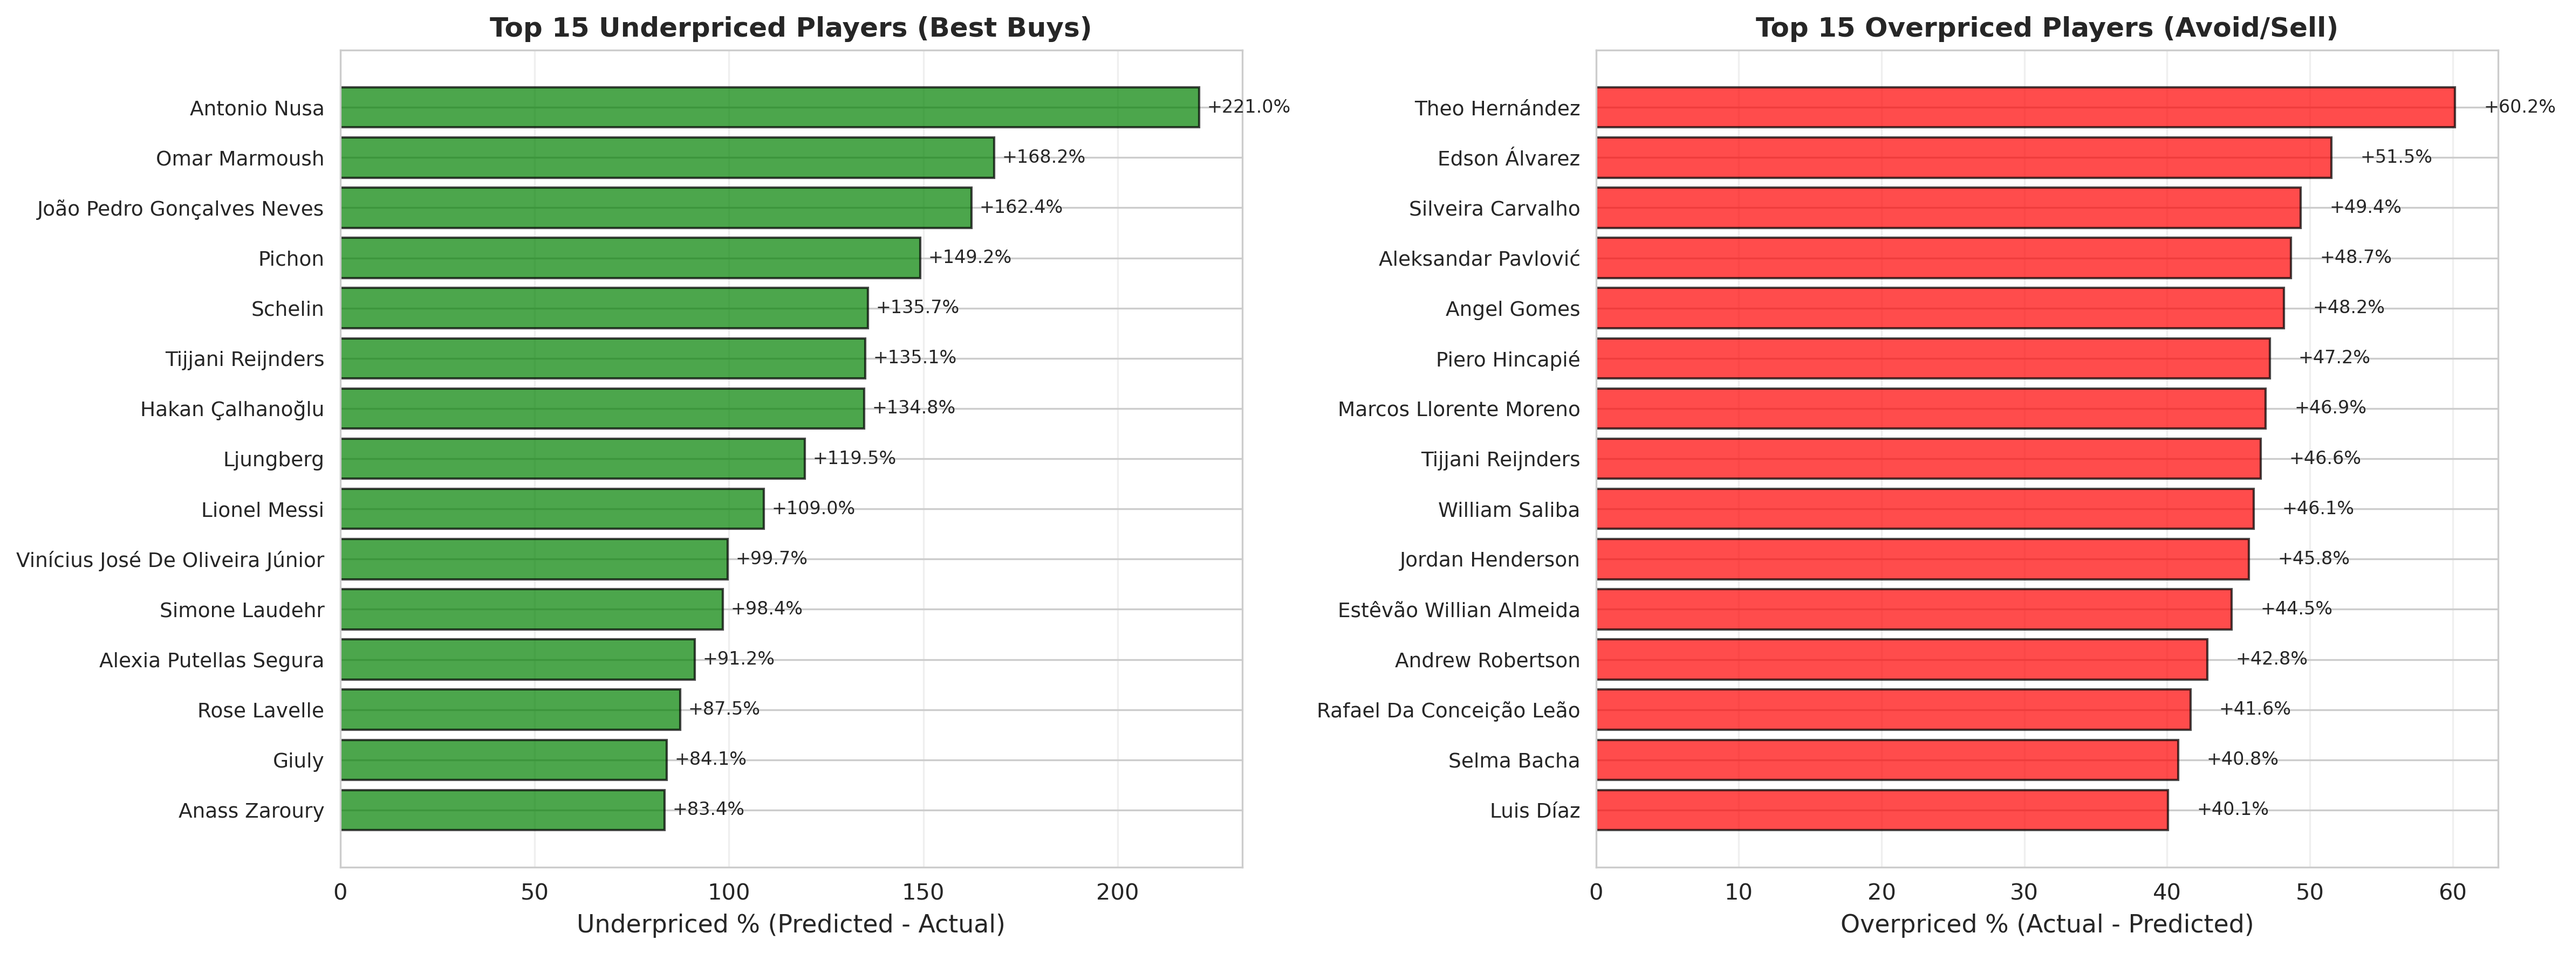
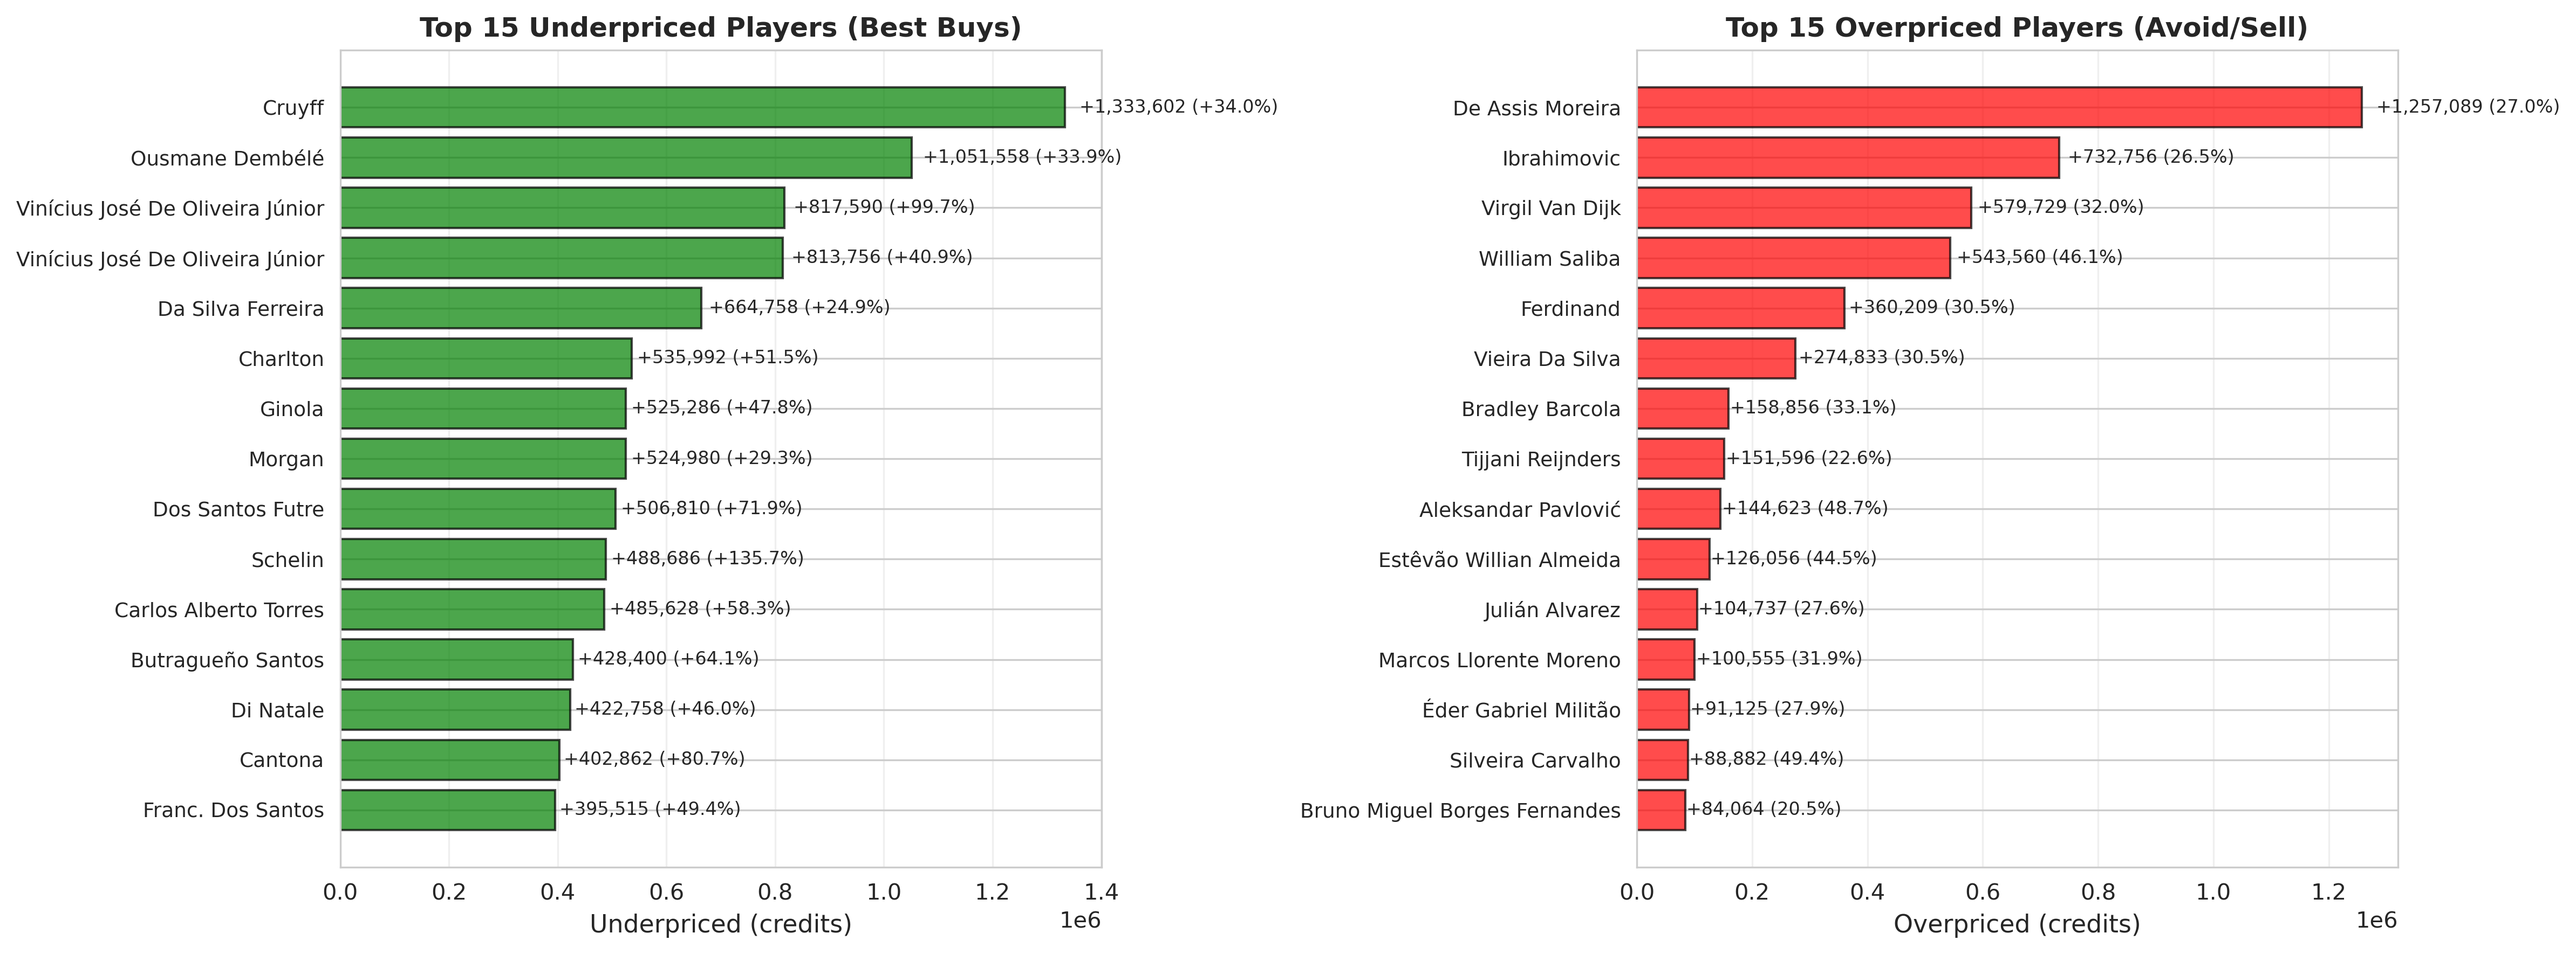
Changed trading opportunities and figures from percentage to absolute values

diff --git a/src/analysis/market_inefficiencies.py b/src/analysis/market_inefficiencies.py
@@ -131,18 +131,18 @@ def main() -> None:
 
         # Top 15 underpriced
         top_underpriced = df[df["status"] == "Underpriced"].nlargest(
-            15, "price_diff_pct"
+            15, "price_diff"
         )
         axes[0].barh(
             range(len(top_underpriced)),
-            top_underpriced["price_diff_pct"],
+            top_underpriced["price_diff"],
             color="green",
             alpha=0.7,
             edgecolor="black",
         )
         axes[0].set_yticks(range(len(top_underpriced)))
         axes[0].set_yticklabels(top_underpriced["player_name"], fontsize=9)
-        axes[0].set_xlabel("Underpriced % (Predicted - Actual)", fontsize=11)
+        axes[0].set_xlabel("Underpriced (credits)", fontsize=11)
         axes[0].set_title(
             "Top 15 Underpriced Players (Best Buys)", fontsize=12, fontweight="bold"
         )
@@ -150,23 +150,25 @@ def main() -> None:
         axes[0].grid(axis="x", alpha=0.3)
 
         # Add percentage labels
-        for idx, val in enumerate(top_underpriced["price_diff_pct"]):
-            axes[0].text(val + 2, idx, f"+{val:.1f}%", va="center", fontsize=8)
+        for idx, (_, row) in enumerate(top_underpriced.iterrows()):
+            val = row["price_diff"]
+            pct = row["price_diff_pct"]
+            axes[0].text(val + val*0.02, idx, f"+{val:,.0f} ({pct:+.1f}%)", va="center", fontsize=8)
 
         # Top 15 overpriced
         top_overpriced = df[df["status"] == "Overpriced"].nsmallest(
-            15, "price_diff_pct"
+            15, "price_diff"
         )
         axes[1].barh(
             range(len(top_overpriced)),
-            top_overpriced["price_diff_pct"].abs(),
+            top_overpriced["price_diff"].abs(),
             color="red",
             alpha=0.7,
             edgecolor="black",
         )
         axes[1].set_yticks(range(len(top_overpriced)))
         axes[1].set_yticklabels(top_overpriced["player_name"], fontsize=9)
-        axes[1].set_xlabel("Overpriced % (Actual - Predicted)", fontsize=11)
+        axes[1].set_xlabel("Overpriced (credits)", fontsize=11)
         axes[1].set_title(
             "Top 15 Overpriced Players (Avoid/Sell)", fontsize=12, fontweight="bold"
         )
@@ -174,8 +176,10 @@ def main() -> None:
         axes[1].grid(axis="x", alpha=0.3)
 
         # Add percentage labels
-        for idx, val in enumerate(top_overpriced["price_diff_pct"].abs()):
-            axes[1].text(val + 2, idx, f"+{val:.1f}%", va="center", fontsize=8)
+        for idx, (_, row) in enumerate(top_overpriced.iterrows()):
+            val = abs(row["price_diff"])
+            pct = abs(row["price_diff_pct"])
+            axes[1].text(val + val*0.02, idx, f"+{val:,.0f} ({pct:.1f}%)", va="center", fontsize=8)
 
         plt.tight_layout()
         output_path = FIGURES_DIR / "16_trading_opportunities.png"
